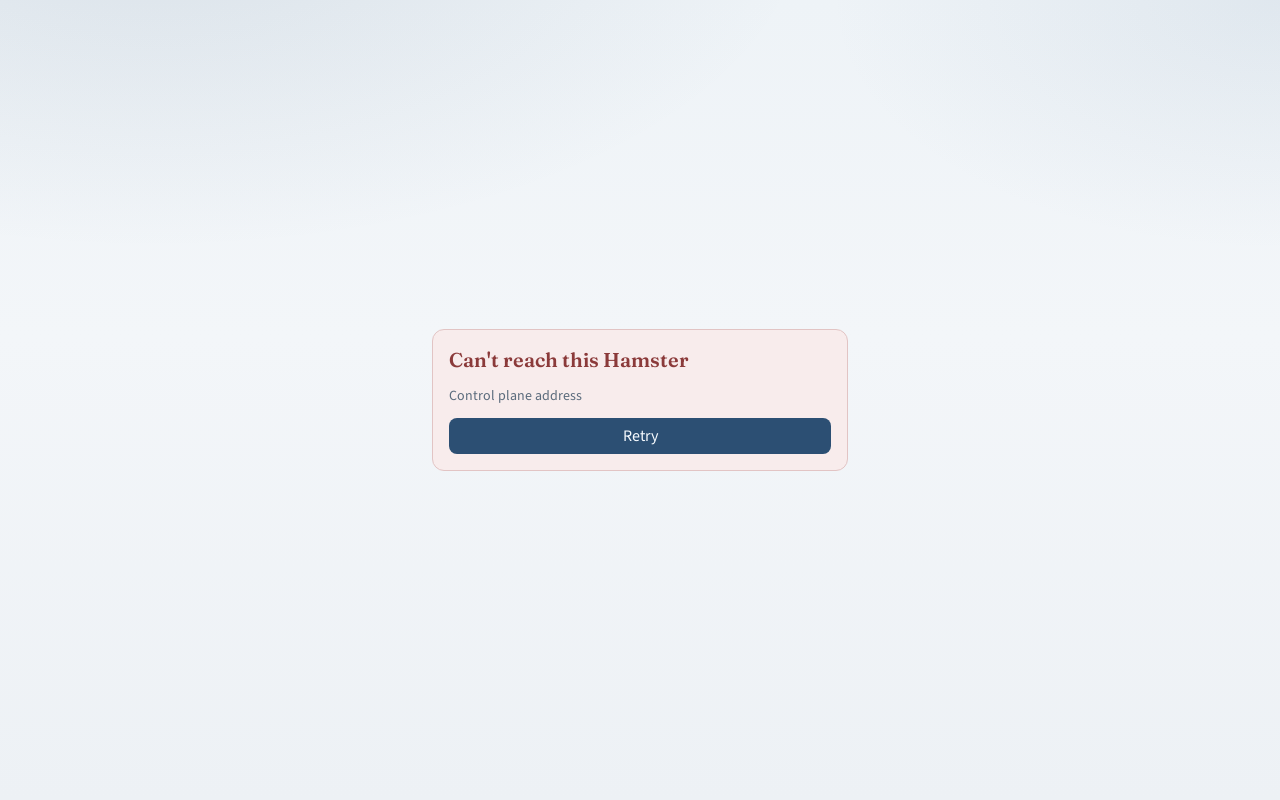
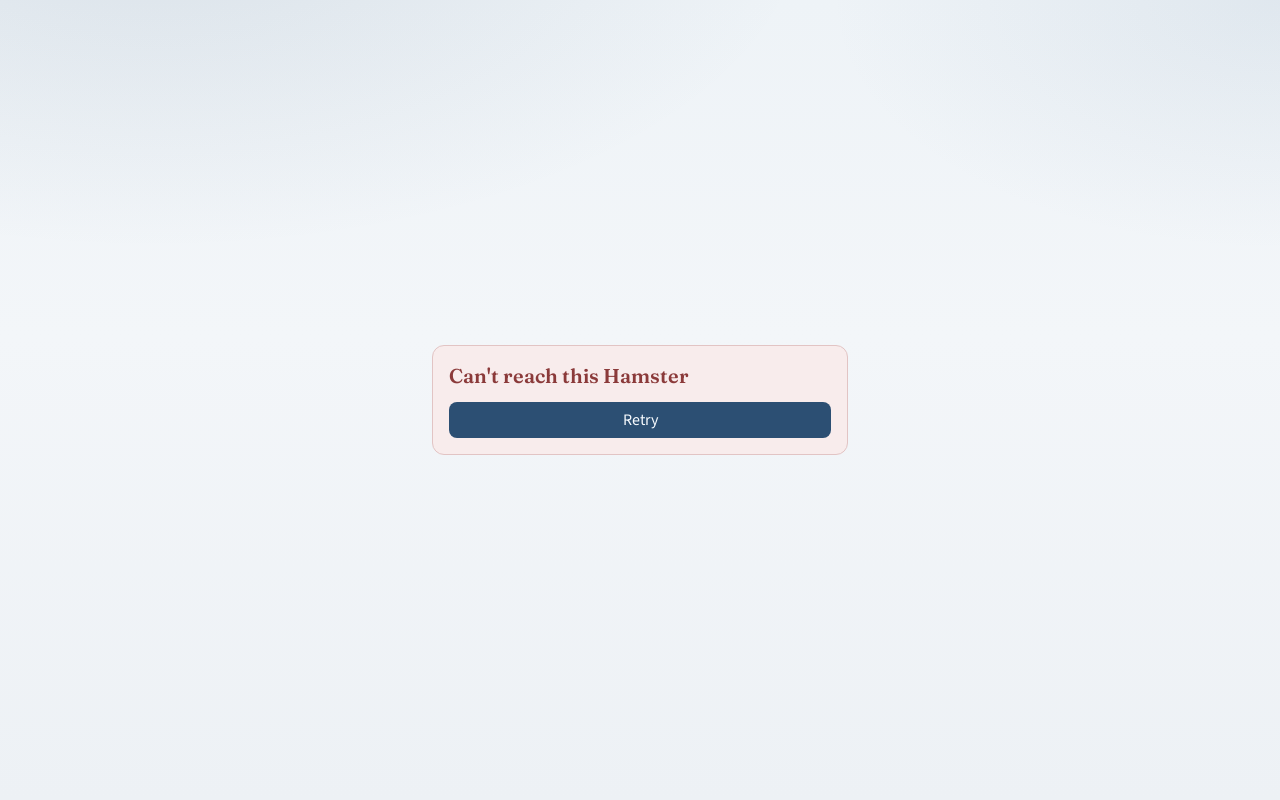
fix(p1): hamsterEnv bridge, disconnect copy, ConnectGate, PWA manifest
Detect Electron via window.hamster, drop the control-plane address label
from the disconnect screen, remember only a health-checked ConnectGate
address, set manifest icon types to image/png, and tighten install.ok.
Fixture disconnect shots were recaptured. Operator docs and a live
Electron window screenshot remain outstanding.

Changed region(s): [[0.3438, 0.4375, 0.6562, 0.5938]]

diff --git a/client/src/components/ConnectGate.tsx b/client/src/components/ConnectGate.tsx
@@ -1,7 +1,7 @@
 import { useState, type FormEvent } from 'react'
 import { Button } from '@/components/ui/button'
 import { useLocale } from '@/i18n/LocaleContext'
-import { controlBaseUrl, isElectronContainer } from '@/lib/hamsterEnv'
+import { controlBaseUrl, isElectronContainer, isSameOriginControlBase } from '@/lib/hamsterEnv'
 
 const LAST_GOOD_KEY = 'hamster.controlBase'
 
@@ -11,8 +11,18 @@ function normalizeOrigin(value: string): string {
 }
 
 /**
- * Quiet connect gate for Electron windows that are not loaded same-origin with the
- * control plane. Address + Connect only; remembers the last successful address.
+ * True when the Electron window should show the quiet connect gate (not same-origin with the
+ * control plane). PWA never shows this gate; the browser only sees it when explicitly asked.
+ */
+export function shouldShowConnectGate(): boolean {
+  if (!isElectronContainer()) return false
+  if (isSameOriginControlBase()) return false
+  return true
+}
+
+/**
+ * Quiet connect gate for Electron windows that are not loaded same-origin with the control plane.
+ * Address + Connect only; remembers the last *verified-successful* address, not an untested submit.
  * Not an onboarding carousel, not a settings center.
  */
 function ConnectGateInner() {
@@ -24,25 +34,35 @@ function ConnectGateInner() {
   })
   const [error, setError] = useState(false)
 
-  function onSubmit(e: FormEvent) {
+  async function onSubmit(e: FormEvent) {
     e.preventDefault()
     const value = address.trim()
     if (!value) {
+      // Empty-field validation uses a non-disconnect state, not the disconnect sentence.
       setError(true)
       return
     }
     const origin = normalizeOrigin(value)
+    setError(false)
     try {
-      localStorage.setItem(LAST_GOOD_KEY, origin)
+      const res = await fetch(`${origin}/api/health`, { cache: 'no-store' })
+      if (!res.ok) throw new Error(`health check failed: ${res.status}`)
+      // Only a verified-reachable address becomes the remembered last good address.
+      try {
+        localStorage.setItem(LAST_GOOD_KEY, origin)
+      } catch {
+        // storage unavailable (private mode) — connect still proceeds
+      }
+      ;(window as Window & { __HAMSTER_CONTROL_BASE__?: string }).__HAMSTER_CONTROL_BASE__ = origin
+      if (origin === window.location.origin) {
+        // Same origin already: just re-evaluate against the freshly injected base.
+        window.location.reload()
+      } else {
+        window.location.assign(origin)
+      }
     } catch {
-      // storage unavailable (private mode) — connect still proceeds
-    }
-    ;(window as Window & { __HAMSTER_CONTROL_BASE__?: string }).__HAMSTER_CONTROL_BASE__ = origin
-    if (origin === window.location.origin) {
-      // Same origin already: just re-evaluate against the freshly injected base.
-      window.location.reload()
-    } else {
-      window.location.assign(origin)
+      // Unreachable: keep the gate open with the validation/error state; never persist untested.
+      setError(true)
     }
   }
 
@@ -66,7 +86,7 @@ function ConnectGateInner() {
           aria-label={t.connectAddressLabel}
         />
         <Button type="submit">{t.connectAction}</Button>
-        {error ? <p className="text-sm text-[var(--color-destructive)]">{t.connect}</p> : null}
+        {error ? <p className="text-sm text-[var(--color-destructive)]">{t.error}</p> : null}
       </form>
     </div>
   )
@@ -74,10 +94,6 @@ function ConnectGateInner() {
 
 /** Gate mount point: Electron windows that are not same-origin with the control plane. */
 export function ConnectGateMount() {
-  const electron = isElectronContainer()
-  const injected = (window as Window & { __HAMSTER_CONTROL_BASE__?: string }).__HAMSTER_CONTROL_BASE__
-  const base = (injected || '').trim().replace(/\/+$/, '') || controlBaseUrl()
-  if (!electron) return null
-  if (window.location.origin === base) return null
+  if (!shouldShowConnectGate()) return null
   return <ConnectGateInner />
 }

diff --git a/client/src/lib/hamsterEnv.ts b/client/src/lib/hamsterEnv.ts
@@ -2,9 +2,14 @@
  * Container-aware connection helpers for the Electron main client + installable PWA.
  *
  * The same React client runs in three containers:
- * - `electron` : the Electron main-computer window (bridge injected by electron/preload + main)
+ * - `electron` : the Electron main-computer window (bridge injected by electron/preload + main:
+ *   `window.hamster` with `container` + `controlBaseUrl`; string or function forms both accepted)
  * - `pwa`      : installed standalone PWA (display-mode: standalone)
  * - `browser`  : ordinary browser tab / dev server
+ *
+ * The `window.hamster` bridge (see electron/preload.js) is authoritative when present; the older
+ * injected globals (`window.__HAMSTER_CONTAINER__` / `window.__HAMSTER_CONTROL_BASE__`) are still
+ * accepted when the bridge is not there. Container identity must not come from page scripts.
  *
  * These helpers are intentionally tiny; they do not add a second visual language.
  */
@@ -17,8 +22,29 @@ export interface HamsterEnv {
   standalone: boolean
 }
 
+type HamsterBridge = {
+  container?: string | (() => string)
+  controlBaseUrl?: string | (() => string)
+}
+
+function readHamsterBridge(): HamsterBridge {
+  const w = window as Window & { hamster?: HamsterBridge }
+  return w.hamster ?? {}
+}
+
+function resolveBridgeString(value: string | (() => string) | undefined): string | undefined {
+  if (typeof value === 'function') {
+    const resolved = (value as () => string)()
+    return typeof resolved === 'string' ? resolved : undefined
+  }
+  return value
+}
+
 function readContainer(): HamsterContainer {
-  const raw = (window as Window & { __HAMSTER_CONTAINER__?: string }).__HAMSTER_CONTAINER__
+  const bridge = readHamsterBridge()
+  const fromBridge = resolveBridgeString(bridge.container)?.trim()
+  const injected = (window as Window & { __HAMSTER_CONTAINER__?: string }).__HAMSTER_CONTAINER__
+  const raw = fromBridge || injected || ''
   if (raw === 'electron' || raw === 'pwa') return raw
   return 'browser'
 }
@@ -32,16 +58,36 @@ function readControlBaseInjected(): string {
   return ''
 }
 
+function readControlBaseBridge(): string {
+  const bridge = readHamsterBridge()
+  const fromBridge = resolveBridgeString(bridge.controlBaseUrl)
+  const raw = fromBridge || readControlBaseInjected()
+  if (typeof raw !== 'string') return ''
+  const stripped = raw.trim().replace(/\/+$/, '')
+  return stripped || ''
+}
+
 export function getHamsterEnv(): HamsterEnv {
   const injected = readControlBaseInjected()
+  const bridged = readControlBaseBridge()
   const fromEnv =
     (import.meta.env.VITE_API_BASE_URL as string | undefined)?.replace(/\/$/, '') || ''
-  const controlBase = injected || fromEnv || window.location.origin
+  const controlBase = bridged || injected || fromEnv || window.location.origin
   return {
     container: readContainer(),
     controlBase,
     standalone: isStandaloneDisplay(),
   }
+}
+
+/**
+ * True when the current renderer already serves the control plane (same origin), i.e. when the
+ * Electron quiet ConnectGate should stay closed. Derived from the `window.hamster` bridge (via
+ * `controlBaseUrl()`), falling back to injected globals / env / current origin.
+ */
+export function isSameOriginControlBase(): boolean {
+  if (typeof window === 'undefined') return true
+  return window.location.origin === getHamsterEnv().controlBase
 }
 
 export function isStandaloneDisplay(): boolean {

diff --git a/client/src/App.tsx b/client/src/App.tsx
@@ -2,7 +2,7 @@ import { useCallback, useEffect, useState } from 'react'
 import { BrowserRouter, Navigate, Route, Routes, useNavigate } from 'react-router-dom'
 import { Button } from '@/components/ui/button'
 import { Shell } from '@/components/Shell'
-import { ConnectGateMount } from '@/components/ConnectGate'
+import { ConnectGateMount, shouldShowConnectGate } from '@/components/ConnectGate'
 import { LocaleProvider, useLocale } from '@/i18n/LocaleContext'
 import { api, isNetworkError } from '@/lib/api'
 import { getCopy } from '@/i18n/messages'
@@ -19,6 +19,7 @@ function AppRoutes() {
   const [conversationTitle, setConversationTitle] = useState('')
   const [pendingApprovals, setPendingApprovals] = useState(0)
   const [connectionError, setConnectionError] = useState(false)
+  const connectGateShowing = shouldShowConnectGate()
 
   const refreshPending = useCallback(async () => {
     try {
@@ -81,16 +82,20 @@ function AppRoutes() {
     return () => off?.()
   }, [navigate])
 
+  if (connectGateShowing) {
+    // Electron window that is not same-origin with the control plane: render the quiet gate only.
+    // Never stack the disconnect screen or the main routes underneath it.
+    return <ConnectGateMount />
+  }
+
   return (
     <>
-      <ConnectGateMount />
       {connectionError ? (
         <div className="mx-auto flex min-h-screen max-w-md flex-col justify-center px-4 py-4">
           <div className="flex flex-col gap-3 rounded-xl border border-[#e2c4c4] bg-[#f8ecec] p-4">
             <h1 className="font-[family-name:var(--font-display)] text-xl font-semibold text-[var(--color-destructive)]">
               {t.connect}
             </h1>
-            <p className="text-sm text-[var(--color-muted-foreground)]">{t.connectAddressLabel}</p>
             <Button onClick={() => void retryConnection()}>{t.retry}</Button>
           </div>
         </div>
